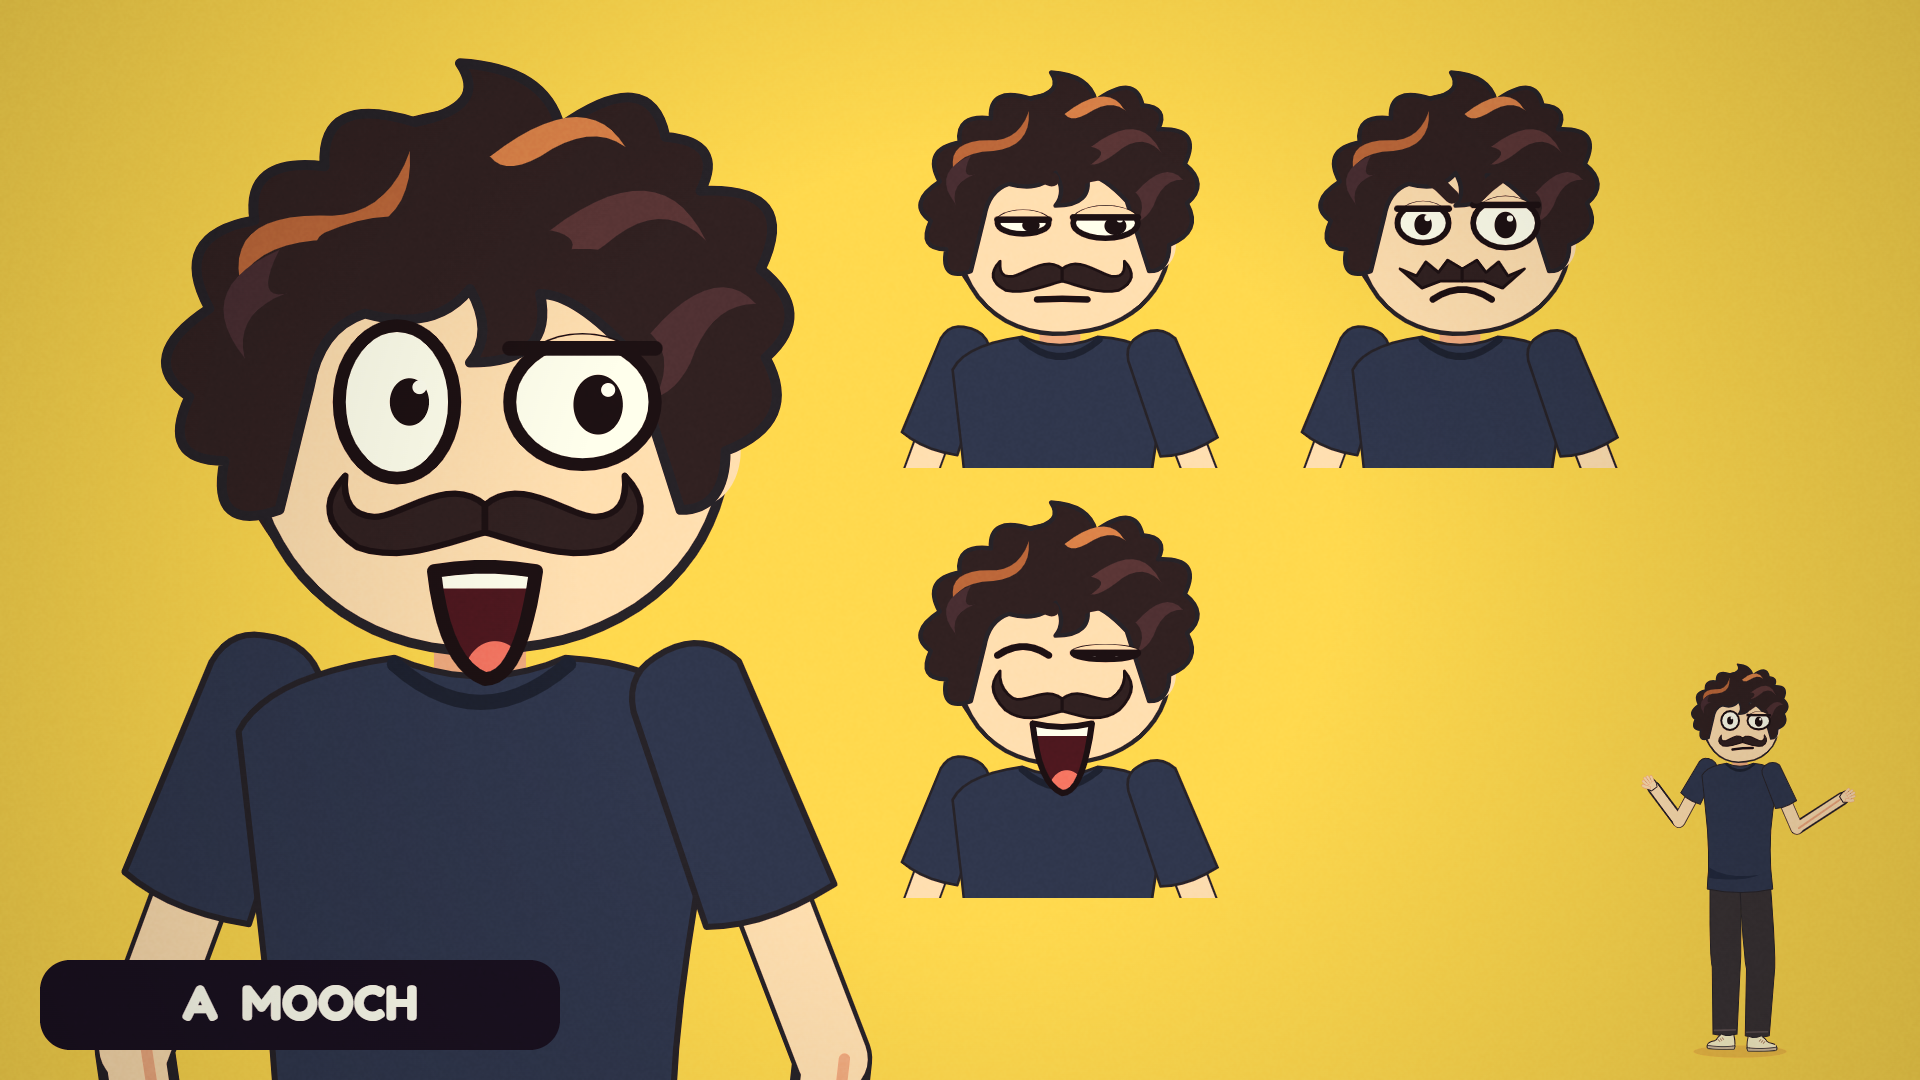
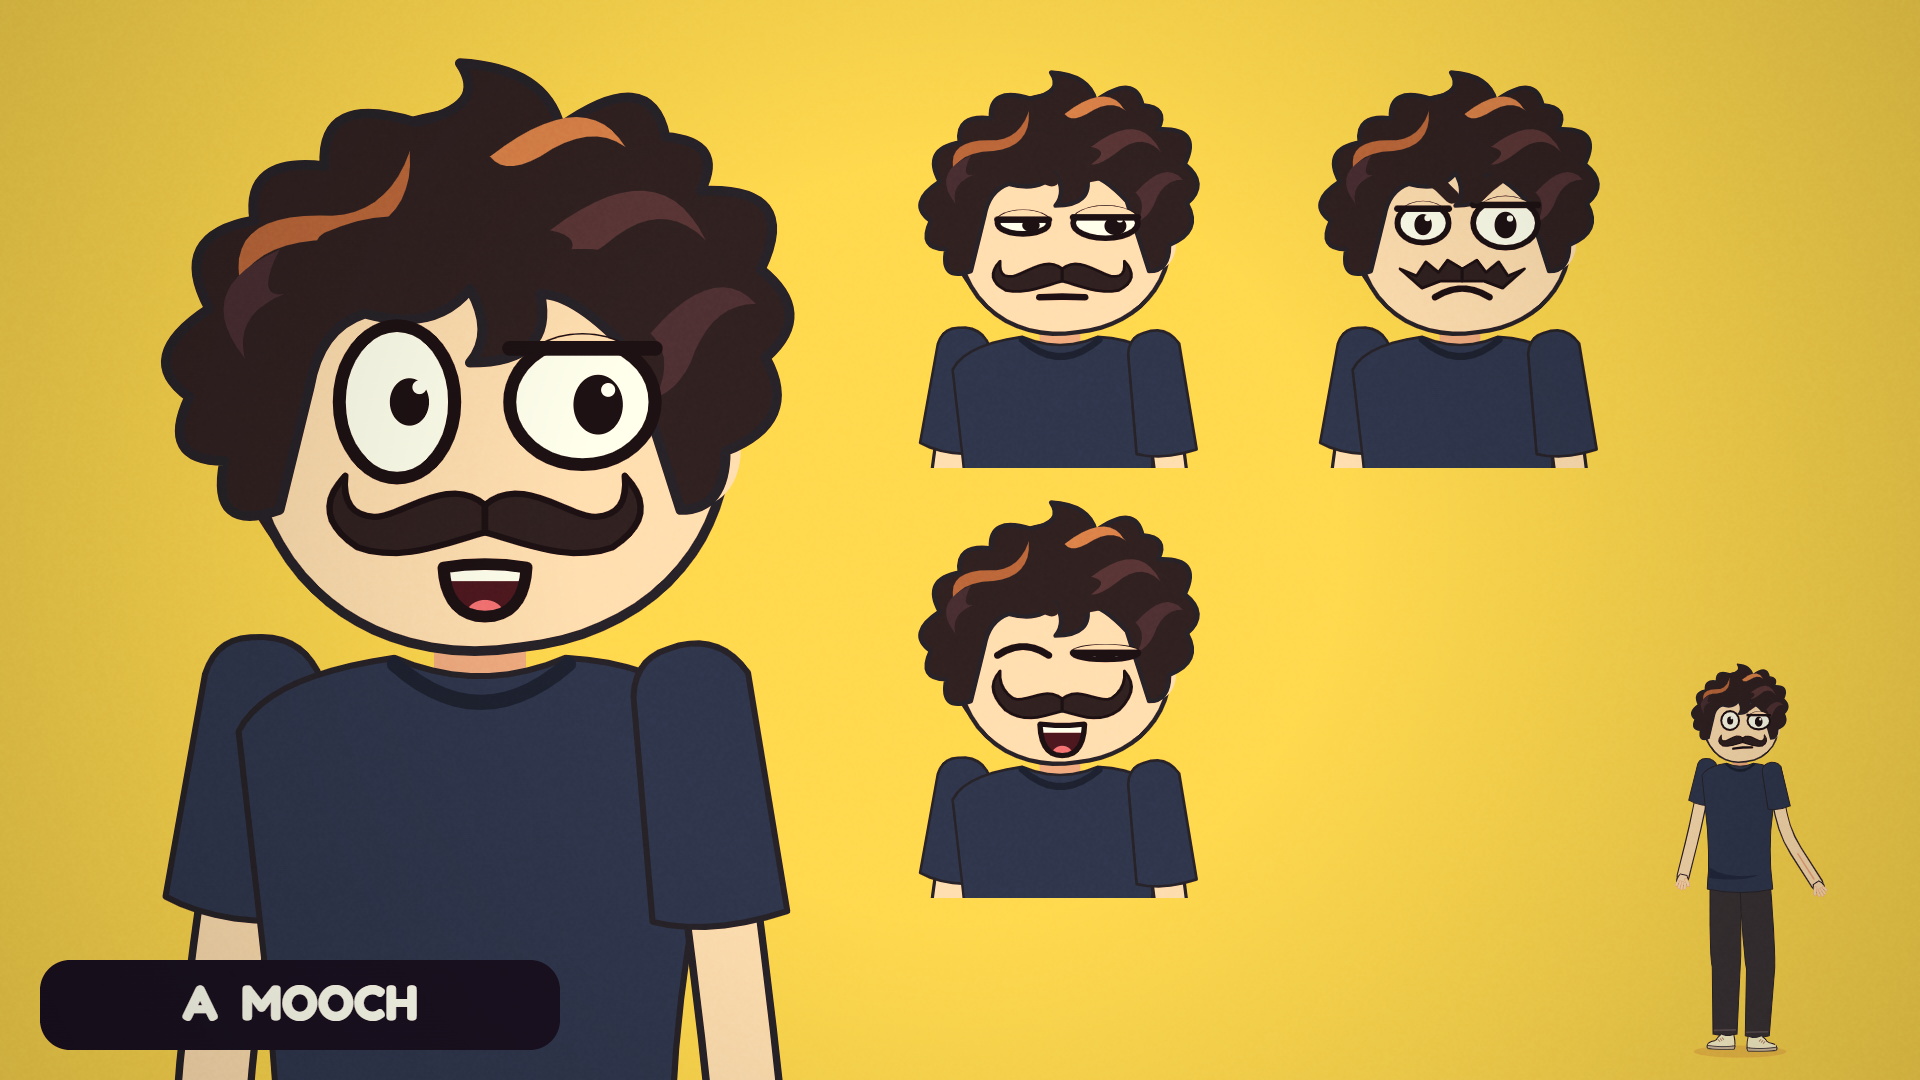
Mooch mouth: rounded open mouth with small rounded tongue

diff --git a/growkaz/engine/memefaces.js b/growkaz/engine/memefaces.js
@@ -15,8 +15,9 @@ function extras(g, c, y = 4) {
 function mouthShape(g, x, y, w, open, curve, asym, teeth) {
   if (open > 0.06) {      // 2026-11-26: the open mouth stays inside the chin (the old one hung below it and read as a tongue sticking out)
     const h = Math.min(13, 3 + open * 21), ww = w * (open > 0.4 ? 0.82 : 0.9);
-    const d = `M ${x - ww} ${y - curve * 4} Q ${x} ${y - 2 + curve * 5} ${x + ww} ${y - curve * 4 - asym * 8} Q ${x + ww * 0.75} ${y + h} ${x} ${y + h} Q ${x - ww * 0.75} ${y + h} ${x - ww} ${y - curve * 4} Z`;
-    path(g, d, '#4a1c24', 0); g.save(); g.clip(new Path2D(d)); if (teeth) teeth(h); if (h > 9) oval(g, x, y + h + 3.5, ww * 0.5, 5.5, '#a04c52', 0); g.restore(); path(g, d, null, 2.4);
+    const l = y - curve * 4, r = l - asym * 8;      // round bowl bottom, never a point (user 2026-11-26)
+    const d = `M ${x - ww} ${l} Q ${x} ${y - 2 + curve * 5} ${x + ww} ${r} C ${x + ww * 0.96} ${y + h * 0.7} ${x + ww * 0.55} ${y + h} ${x} ${y + h} C ${x - ww * 0.55} ${y + h} ${x - ww * 0.96} ${y + h * 0.7} ${x - ww} ${l} Z`;
+    path(g, d, '#4a1c24', 0); g.save(); g.clip(new Path2D(d)); if (teeth) teeth(h); if (h > 7) oval(g, x, y + h + 0.5, ww * 0.5, Math.min(5, h * 0.4), '#e0747a', 0); g.restore(); path(g, d, null, 2.4);   // tongue: small rounded dome
   } else path(g, `M ${x - w} ${y + asym * 4} Q ${x} ${y + curve * 40} ${x + w} ${y - asym * 18}`, null, 3);
 }
 
